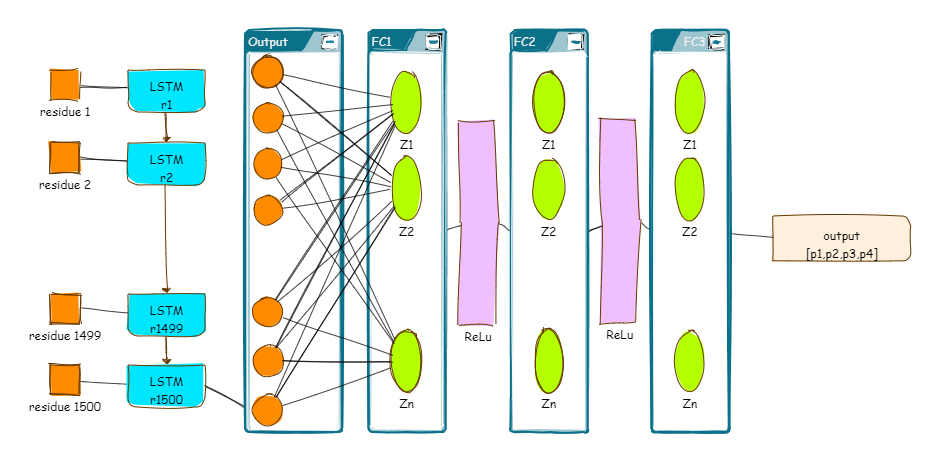
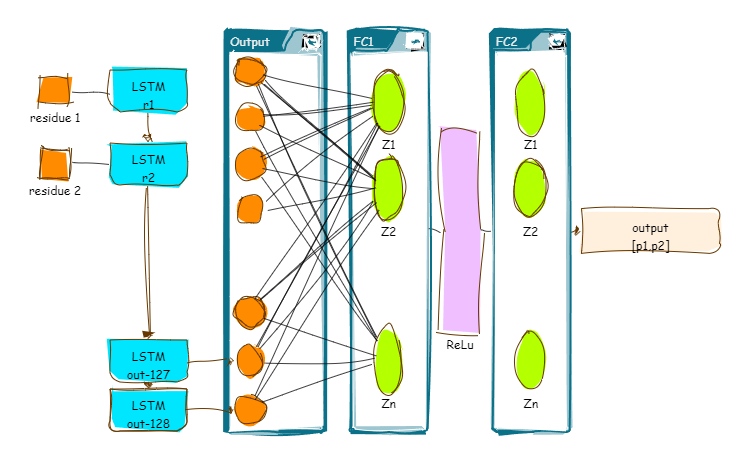
update the pics and readme

diff --git a/README.md b/README.md
@@ -33,11 +33,12 @@ Encoded location vector
 The protein sequence is encoded as one-hot vector using 24 residue symbols (including non-standard, line B is Aspartic acid or Asparagine) plus '#' as the placeholder when sequence is shorter than threshold. 
 
 # Model
-Model is LSTM with 3 fully connected layers
+Model is LSTM (input size is 512, hidden size is 128) and 2 fully connected layers
 ![image](docs/seq2loc.png)
 
 This model was trained with 70 epochs, batch size=256. 
+
 ![image](docs/loss.png)
 
 # Results
-The balanced accuracy for this model is **0.73%** for prediction membrane localization and **0.76** for nuclear localization. 
+The balanced accuracy for this model is **73%** for prediction membrane localization and **76%** for nuclear localization. 
